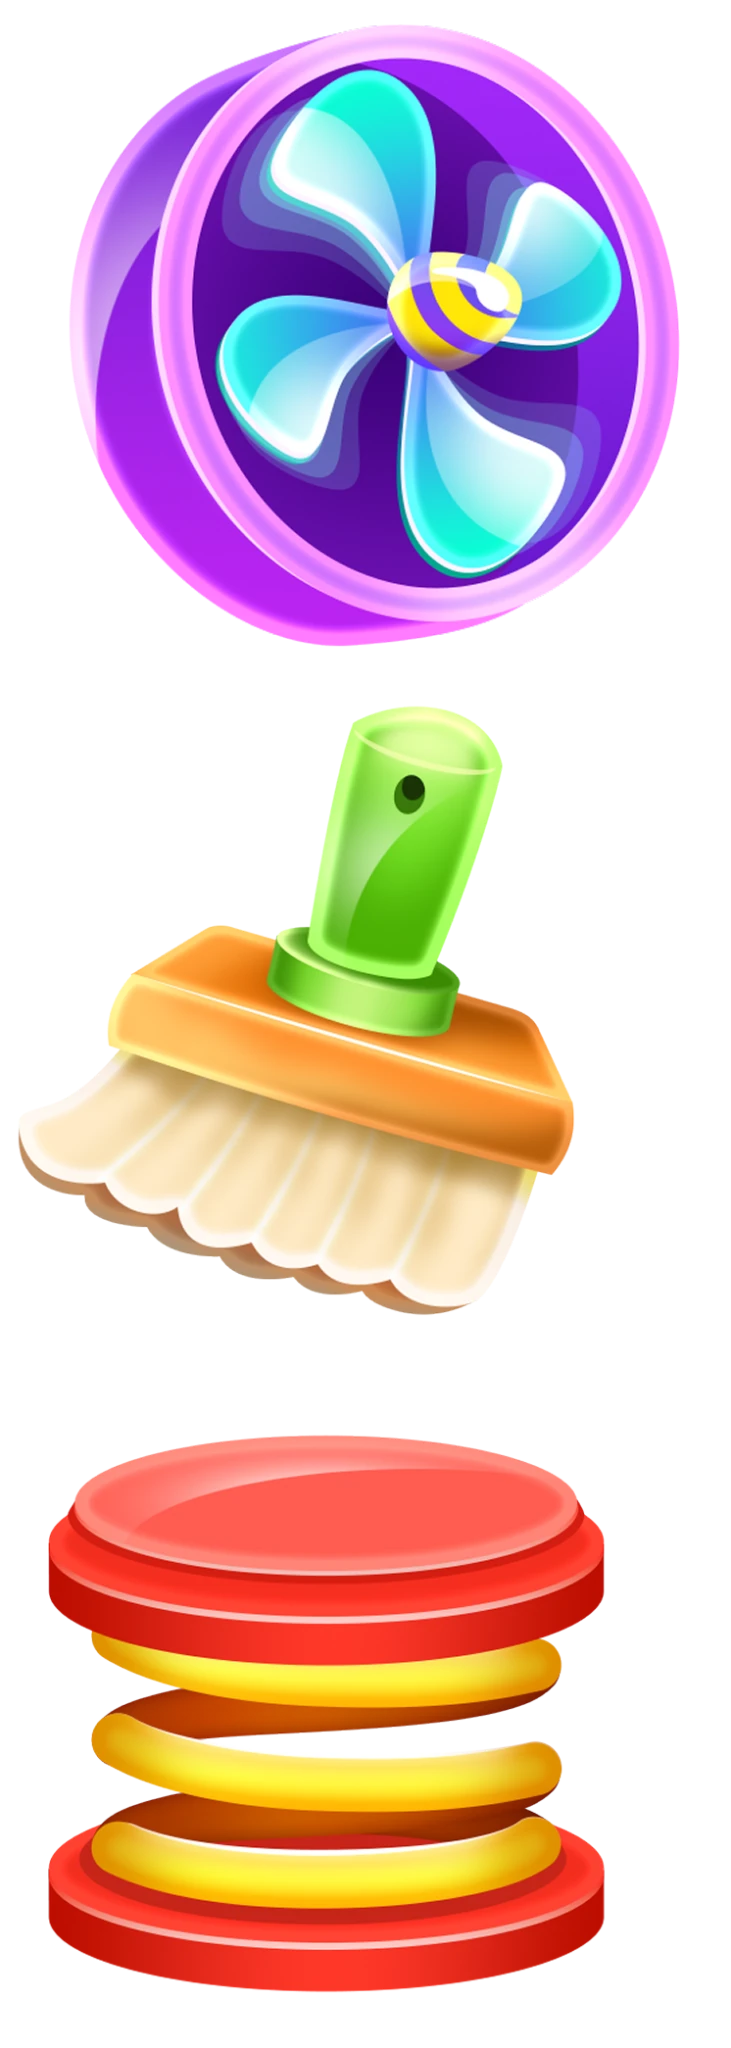
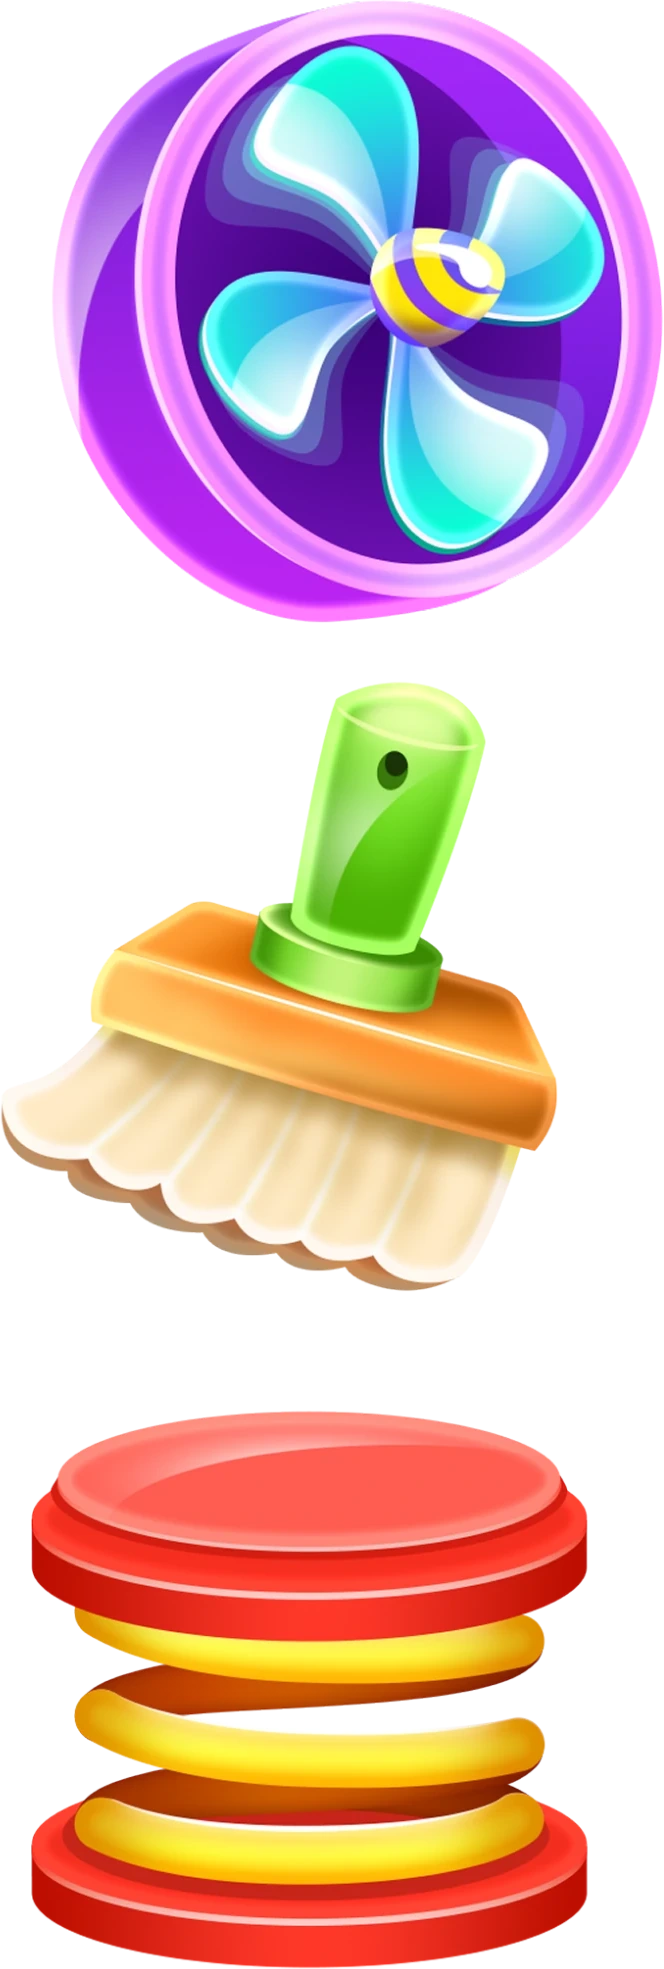
Add files via upload

diff --git a/script.js b/script.js
@@ -71,6 +71,29 @@
     return info;
   }
 
+  function buildScreenFrame(project, screen, index, eager, extraClass = '') {
+    const frame = document.createElement('figure');
+    frame.className = 'screen-frame' + (extraClass ? ' ' + extraClass : '');
+    if (screen.type === 'logo') frame.classList.add('screen-frame--logo');
+    const img = document.createElement('img');
+    img.src = '/' + screen.src.replace(/^\/+/, '');
+    img.alt = `${project.name} — ${screen.label || `screen ${index + 1}`}`;
+    img.loading = eager && index === 0 ? 'eager' : 'lazy';
+    img.decoding = 'async';
+    if (screen.type === 'logo') {
+      img.width = 1000;
+      img.height = 810;
+    } else if (project.layout === 'landscape' || project.layout === 'landscape-logo') {
+      img.width = 2048;
+      img.height = 945;
+    } else {
+      img.width = 921;
+      img.height = 1993;
+    }
+    frame.appendChild(img);
+    return frame;
+  }
+
   function buildFeaturedCard(project, t, eager) {
     const card = document.createElement('article');
     card.className = 'project-card project-card--featured';
@@ -84,34 +107,55 @@
     const visualPanel = document.createElement('div');
     visualPanel.className = 'project-visual-panel';
 
+    const screens = Array.isArray(project.screens) ? project.screens : [];
     const gallery = document.createElement('div');
     gallery.className = 'project-gallery';
     if (project.layout) gallery.classList.add('project-gallery--' + project.layout);
+    screens.forEach((screen, index) => gallery.appendChild(buildScreenFrame(project, screen, index, eager)));
 
-    (project.screens || []).forEach((screen, index) => {
-      const frame = document.createElement('figure');
-      frame.className = 'screen-frame';
-      if (screen.type === 'logo') frame.classList.add('screen-frame--logo');
-      const img = document.createElement('img');
-      img.src = '/' + screen.src.replace(/^\/+/, '');
-      img.alt = `${project.name} — ${screen.label || `screen ${index + 1}`}`;
-      img.loading = eager && index === 0 ? 'eager' : 'lazy';
-      img.decoding = 'async';
-      if (screen.type === 'logo') {
-        img.width = 1000;
-        img.height = 810;
-      } else if (project.layout === 'landscape' || project.layout === 'landscape-logo') {
-        img.width = 2048;
-        img.height = 945;
+    const logoIndex = screens.findIndex(screen => screen.type === 'logo');
+    const hasThreeVisuals = screens.length === 3;
+    const hasLandscapeLogo = project.layout === 'landscape-logo' && screens.length >= 2;
+    const useMobileComposed = hasThreeVisuals || hasLandscapeLogo;
+
+    if (useMobileComposed) {
+      card.classList.add('project-card--mobile-composed');
+      if (hasLandscapeLogo) card.classList.add('project-card--mobile-landscape-logo');
+
+      const mobileIntro = document.createElement('div');
+      mobileIntro.className = 'project-mobile-intro' + (hasLandscapeLogo ? ' project-mobile-intro--logo-left' : '');
+
+      const mobileInfo = buildProjectInfo(project, t);
+      mobileInfo.classList.add('project-info--mobile');
+
+      let featureIndex;
+      if (hasLandscapeLogo) {
+        featureIndex = logoIndex >= 0 ? logoIndex : 0;
       } else {
-        img.width = 921;
-        img.height = 1993;
+        featureIndex = logoIndex >= 0 ? logoIndex : screens.length - 1;
       }
-      frame.appendChild(img);
-      gallery.appendChild(frame);
-    });
 
-    visualPanel.appendChild(gallery);
+      const featureFrame = buildScreenFrame(project, screens[featureIndex], featureIndex, eager, 'screen-frame--mobile-feature');
+
+      if (hasLandscapeLogo) {
+        mobileIntro.append(featureFrame, mobileInfo);
+      } else {
+        mobileIntro.append(mobileInfo, featureFrame);
+      }
+
+      const mobileGallery = document.createElement('div');
+      const remainingScreens = screens.filter((_, index) => index !== featureIndex);
+      mobileGallery.className = 'project-mobile-gallery' + (remainingScreens.length === 1 ? ' project-mobile-gallery--single' : '');
+      remainingScreens.forEach((screen, index) => {
+        const originalIndex = screens.indexOf(screen);
+        mobileGallery.appendChild(buildScreenFrame(project, screen, originalIndex, eager));
+      });
+
+      visualPanel.append(mobileIntro, mobileGallery, gallery);
+    } else {
+      visualPanel.appendChild(gallery);
+    }
+
     card.append(visualPanel, header);
     return card;
   }

diff --git a/styles.css b/styles.css
@@ -110,8 +110,14 @@ button:focus-visible,a:focus-visible{outline:2px solid var(--ink);outline-offset
   align-items:start;
   min-width:0;
 }
-.screen-frame{margin:0;padding:0;min-width:0;background:transparent;border:0;border-radius:0;box-shadow:none}
-.screen-frame img{display:block;width:100%;height:auto;border:0;border-radius:0;background:transparent;box-shadow:none}
+.project-mobile-intro,
+.project-mobile-gallery{display:none}
+.screen-frame{margin:0;padding:0;min-width:0;align-self:start;background:transparent;border:0;border-radius:0;box-shadow:none}
+.screen-frame img{display:block;width:100%;height:auto;border:0;border-radius:0;background:transparent;box-shadow:none;vertical-align:top}
+.project-mobile-intro .project-info{margin:0}
+.project-mobile-intro .project-info h2{font-size:clamp(23px,6vw,31px);line-height:1.12}
+.project-mobile-intro .project-info p,
+.project-mobile-intro .project-info time{font-size:13px;color:#535a61}
 
 /* Additional screenshot arrangements keep each original composition intact. */
 .project-gallery--landscape,
@@ -178,6 +184,18 @@ button:focus-visible,a:focus-visible{outline:2px solid var(--ink);outline-offset
   .project-gallery--duo-logo .screen-frame--logo img{width:min(65%,240px)}
   .project-gallery--landscape-logo .screen-frame--logo{width:min(65%,260px)}
   .project-gallery--landscape img,.project-gallery--landscape-logo img{width:100%;height:auto}
+
+  .project-card--mobile-composed{grid-template-columns:1fr;grid-template-areas:"visual";gap:0}
+  .project-card--mobile-composed .project-featured-header{display:none}
+  .project-card--mobile-composed .project-gallery{display:none}
+  .project-card--mobile-composed .project-mobile-intro{display:grid;grid-template-columns:minmax(0,1fr) minmax(112px,38%);gap:14px;align-items:start;margin-bottom:14px}
+  .project-card--mobile-composed .project-mobile-intro--logo-left{grid-template-columns:minmax(112px,38%) minmax(0,1fr)}
+  .project-card--mobile-composed .screen-frame--mobile-feature{display:flex;justify-content:flex-end;align-items:flex-start}
+  .project-card--mobile-composed .project-mobile-intro--logo-left .screen-frame--mobile-feature{justify-content:flex-start}
+  .project-card--mobile-composed .screen-frame--mobile-feature img{width:100%;height:auto}
+  .project-card--mobile-composed .screen-frame--mobile-feature.screen-frame--logo img{width:min(100%,240px);object-fit:contain}
+  .project-card--mobile-composed .project-mobile-gallery{display:grid;grid-template-columns:repeat(2,minmax(0,1fr));gap:14px;align-items:start}
+  .project-card--mobile-composed .project-mobile-gallery--single{grid-template-columns:1fr}
 
   .project-card--featured .project-info h2{font-size:clamp(23px,6vw,31px)}
   .project-info h2{font-size:17px}

diff --git a/projects.js b/projects.js
@@ -14,7 +14,20 @@ window.PORTFOLIO_PROJECTS = [
       {src:'assets/dst-score.png', label:'Score'}
     ]
   },
-  {name:'Lost Parcel Tycoon', category:'game', year:'2026', image:'assets/lost-parcel-tycoon.webp'},
+  {
+    name:'Lost Parcel Tycoon',
+    category:'game',
+    year:'2026',
+    image:'assets/lost-parcel-tycoon.webp',
+    featured:true,
+    gradientFrom:'#F0E4DF',
+    gradientTo:'#E8E0DB',
+    screens:[
+      {src:'assets/lpt-1.webp', label:'Home screen'},
+      {src:'assets/lpt-2.webp', label:'Inventory'},
+      {src:'assets/lpt-3.webp', label:'Upgrades'}
+    ]
+  },
   {
     name:'Taxi Idle Game',
     category:'game',
@@ -69,7 +82,20 @@ window.PORTFOLIO_PROJECTS = [
       {src:'assets/jwa-2.webp',label:'Badges and profile'}
     ]
   },
-  {name:'Pixel Quiz', category:'game', year:'2023', image:'assets/pixel-quiz.webp'},
+  {
+    name:'Pixel Quiz',
+    category:'game',
+    year:'2023',
+    image:'assets/pixel-quiz.webp',
+    featured:true,
+    gradientFrom:'#E8F0FF',
+    gradientTo:'#FAECEB',
+    screens:[
+      {src:'assets/pixel-1.webp', label:'Level list'},
+      {src:'assets/pixel-2.webp', label:'Quiz screen'},
+      {src:'assets/pixel-3.webp', label:'Unlock popup'}
+    ]
+  },
   {
     name:'Bingo', category:'game', year:'2022', image:'assets/bingo.webp',
     featured:true, layout:'landscape', gradientFrom:'#EDF6E4', gradientTo:'#FFFAE9',
